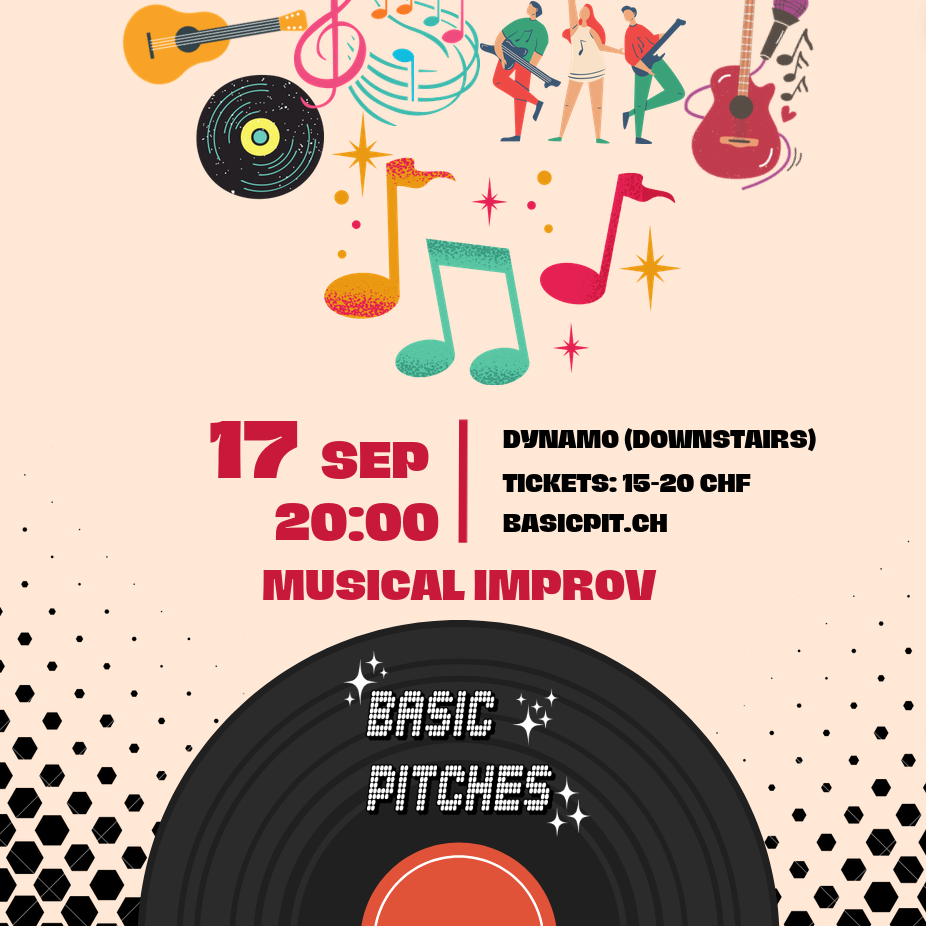
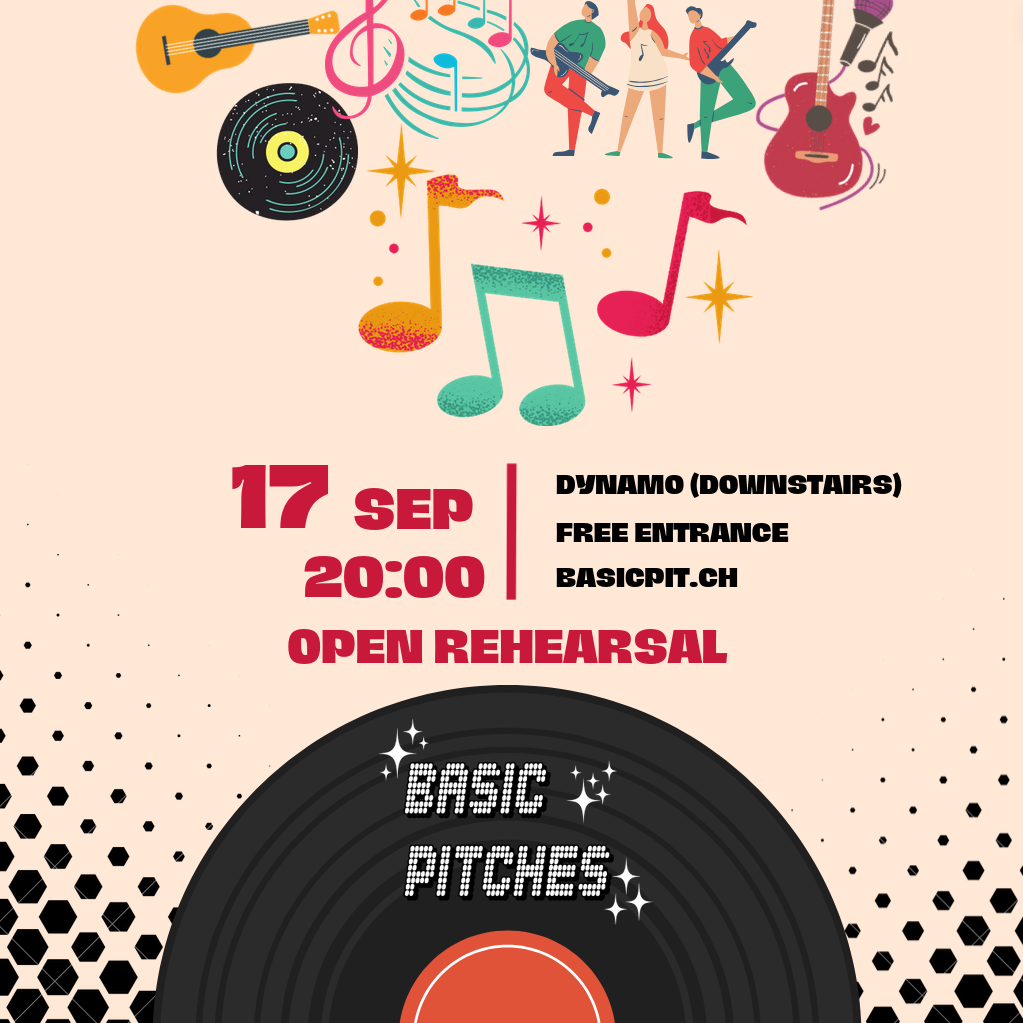
Built from circleci

diff --git a/dynamo_sep_2024.html b/dynamo_sep_2024.html
@@ -5,7 +5,7 @@
   <head>
     <meta charset="utf-8">
     <meta http-equiv="X-UA-Compatible" content="IE=edge">
-    <title>Basic Pitches: A musical show like no other!</title>
+    <title>Open Rehearsal</title>
     
     <meta name="author" content="">
     
@@ -36,7 +36,7 @@
 
 <link rel="shortcut icon" type="image/png" href="/assets/favicon.png">
 
-    <meta property="og:title" content="Basic Pitches: A musical show like no other!">
+    <meta property="og:title" content="Open Rehearsal">
     <meta property="og:description" content="">
     <meta property="og:image" content="/assets/img/big/2024-09-17-dynamo_sep_2024.png">
     <meta property="og:url" content="">
@@ -141,7 +141,7 @@
     <div class="row">
       <div class="col-sm-12">
         <div class="event-heading">
-          <h1 class="heading-title ">Basic Pitches: A musical show like no other!
+          <h1 class="heading-title ">Open Rehearsal
             
               <h4 class="sub-title"> - Musical Improv show </h4>
             
@@ -150,7 +150,7 @@
       </div>
       <div class="col-sm-12 col-md-8">
         <figure>
-          <img src="/assets/images/2024-09-17-dynamo_sep_2024.png" alt="Basic Pitches: A musical show like no other!">
+          <img src="/assets/images/2024-09-17-dynamo_sep_2024.png" alt="Open Rehearsal">
         </figure>
       </div>
 
@@ -184,9 +184,7 @@
             <li>
               <i class="fa fa-ticket icons cyan-color contact-info-icon"></i>
               
-                20 CHF (15CHF for students)
-                
-                  <script src="https://embed.eventfrog.ch/api/scripts/embed/buybutton.js"></script><iframe src="https://embed.eventfrog.ch/en/embed/button-buy.html?eventId=7236005778162698369" frameborder="0" scrolling="no" width="260" height="47" class="ticket-link"></iframe>
+                Free entry
                 
               
             </li>
@@ -216,13 +214,11 @@
 					
           <div class="mb-60"></div>
           <h3>Description:</h3>
-          <p>Join us for an unforgettable night of musical improvisation!<!--more--> Watch as talented actors weave captivating stories and sing heartfelt melodies right before your eyes. With no script and no rehearsal, every performance is a unique and exciting adventure. Don’t miss this chance to witness the magic of live theater!</p>
+          <p>Try out singing together<!--more--> with us! We will be doing some musical improv exercises and games.</p>
 
-<p>Join us for an unforgettable night of musical improvisation! Watch as talented actors weave captivating stories and sing heartfelt melodies right before your eyes. With no script and no rehearsal, every performance is a unique and exciting adventure. Don’t miss this chance to witness the magic of live theater!</p>
+<p>No experience neeeded, just come and have fun with us!</p>
 
 
-          
-          <script src="https://embed.eventfrog.ch/api/scripts/embed/buybutton.js"></script><iframe src="https://embed.eventfrog.ch/en/embed/button-buy.html?eventId=7236005778162698369" frameborder="0" scrolling="no" width="260" height="47" class="ticket-link"></iframe>
           
 
           
@@ -381,7 +377,7 @@
          
        !</h4>
 			 <a href="/dynamo_sep_2024">
-				 <img src="/assets/images/2024-09-17-dynamo_sep_2024.png" alt="Basic Pitches: A musical show like no other! image">
+				 <img src="/assets/images/2024-09-17-dynamo_sep_2024.png" alt="Open Rehearsal image">
 			 </a>
      <p>17 Sep 2024</p>
 

diff --git a/index.html b/index.html
@@ -370,7 +370,7 @@
 
      <div class="col-md-8 col-sm-12">
   			 <a href="/dynamo_sep_2024">
-  				 <img src="/assets/images/2024-09-17-dynamo_sep_2024.png" alt="Basic Pitches: A musical show like no other! image">
+  				 <img src="/assets/images/2024-09-17-dynamo_sep_2024.png" alt="Open Rehearsal image">
   			 </a>
 
        </div>
@@ -512,8 +512,8 @@
              
               <a href="/dynamo_sep_2024"><img src="/assets/images/2024-09-17-dynamo_sep_2024.png" alt=""></a>
              
-              <h5>Basic Pitches: A musical show like no other!</h5>
-              <p><p>Join us for an unforgettable night of musical improvisation!</p>
+              <h5>Open Rehearsal</h5>
+              <p><p>Try out singing together</p>
 
 </p>
               <a href="/dynamo_sep_2024">Full Article <i class="fa fa-arrow-right" aria-hidden="true"></i></a>
@@ -537,21 +537,6 @@
               <h5>Introduction to Rhyming in Musical Improv</h5>
               <p><p>Feel like you can’t rhyme when improvising songs? Keep getting stuck down rhyming dead ends? This is the workshop for you!</p>
 
-<p>In three hours, we will cover the basic building blocks of improvised rhymes!</p>
-
-<ul>
-  <li>How to find your flow</li>
-  <li>How to stay calm</li>
-  <li>How to successfully rhyme and land punchlines in improvised songs</li>
-</ul>
-
-<p>…all while keeping things fun, stress-free, chill and relaxed!</p>
-
-<p>The session involves a lot of writing with pen and paper, and not a huge amount of standing up alone and rhyming on the spot. And when we do rhyme, sing, or rap together, it’ll be in the form of fun shortform games! The atmosphere is always very relaxed, fun and supportive!</p>
-
-<p>Rhyming is one of the things improvisers find most terrifying. This workshop will help you turn that fear into freedom and fun!</p>
-
-<p>Previous improv experience preferable, but not required.</p>
 </p>
               <a href="/MC_Hammersmith_2024">Full Article <i class="fa fa-arrow-right" aria-hidden="true"></i></a>
             </div>

diff --git a/page2/index.html b/page2/index.html
@@ -370,7 +370,7 @@
 
      <div class="col-md-8 col-sm-12">
   			 <a href="/dynamo_sep_2024">
-  				 <img src="/assets/images/2024-09-17-dynamo_sep_2024.png" alt="Basic Pitches: A musical show like no other! image">
+  				 <img src="/assets/images/2024-09-17-dynamo_sep_2024.png" alt="Open Rehearsal image">
   			 </a>
 
        </div>
@@ -512,8 +512,8 @@
              
               <a href="/dynamo_sep_2024"><img src="/assets/images/2024-09-17-dynamo_sep_2024.png" alt=""></a>
              
-              <h5>Basic Pitches: A musical show like no other!</h5>
-              <p><p>Join us for an unforgettable night of musical improvisation!</p>
+              <h5>Open Rehearsal</h5>
+              <p><p>Try out singing together</p>
 
 </p>
               <a href="/dynamo_sep_2024">Full Article <i class="fa fa-arrow-right" aria-hidden="true"></i></a>
@@ -537,21 +537,6 @@
               <h5>Introduction to Rhyming in Musical Improv</h5>
               <p><p>Feel like you can’t rhyme when improvising songs? Keep getting stuck down rhyming dead ends? This is the workshop for you!</p>
 
-<p>In three hours, we will cover the basic building blocks of improvised rhymes!</p>
-
-<ul>
-  <li>How to find your flow</li>
-  <li>How to stay calm</li>
-  <li>How to successfully rhyme and land punchlines in improvised songs</li>
-</ul>
-
-<p>…all while keeping things fun, stress-free, chill and relaxed!</p>
-
-<p>The session involves a lot of writing with pen and paper, and not a huge amount of standing up alone and rhyming on the spot. And when we do rhyme, sing, or rap together, it’ll be in the form of fun shortform games! The atmosphere is always very relaxed, fun and supportive!</p>
-
-<p>Rhyming is one of the things improvisers find most terrifying. This workshop will help you turn that fear into freedom and fun!</p>
-
-<p>Previous improv experience preferable, but not required.</p>
 </p>
               <a href="/MC_Hammersmith_2024">Full Article <i class="fa fa-arrow-right" aria-hidden="true"></i></a>
             </div>

diff --git a/page3/index.html b/page3/index.html
@@ -370,7 +370,7 @@
 
      <div class="col-md-8 col-sm-12">
   			 <a href="/dynamo_sep_2024">
-  				 <img src="/assets/images/2024-09-17-dynamo_sep_2024.png" alt="Basic Pitches: A musical show like no other! image">
+  				 <img src="/assets/images/2024-09-17-dynamo_sep_2024.png" alt="Open Rehearsal image">
   			 </a>
 
        </div>
@@ -512,8 +512,8 @@
              
               <a href="/dynamo_sep_2024"><img src="/assets/images/2024-09-17-dynamo_sep_2024.png" alt=""></a>
              
-              <h5>Basic Pitches: A musical show like no other!</h5>
-              <p><p>Join us for an unforgettable night of musical improvisation!</p>
+              <h5>Open Rehearsal</h5>
+              <p><p>Try out singing together</p>
 
 </p>
               <a href="/dynamo_sep_2024">Full Article <i class="fa fa-arrow-right" aria-hidden="true"></i></a>
@@ -537,21 +537,6 @@
               <h5>Introduction to Rhyming in Musical Improv</h5>
               <p><p>Feel like you can’t rhyme when improvising songs? Keep getting stuck down rhyming dead ends? This is the workshop for you!</p>
 
-<p>In three hours, we will cover the basic building blocks of improvised rhymes!</p>
-
-<ul>
-  <li>How to find your flow</li>
-  <li>How to stay calm</li>
-  <li>How to successfully rhyme and land punchlines in improvised songs</li>
-</ul>
-
-<p>…all while keeping things fun, stress-free, chill and relaxed!</p>
-
-<p>The session involves a lot of writing with pen and paper, and not a huge amount of standing up alone and rhyming on the spot. And when we do rhyme, sing, or rap together, it’ll be in the form of fun shortform games! The atmosphere is always very relaxed, fun and supportive!</p>
-
-<p>Rhyming is one of the things improvisers find most terrifying. This workshop will help you turn that fear into freedom and fun!</p>
-
-<p>Previous improv experience preferable, but not required.</p>
 </p>
               <a href="/MC_Hammersmith_2024">Full Article <i class="fa fa-arrow-right" aria-hidden="true"></i></a>
             </div>

diff --git a/workshops.html b/workshops.html
@@ -162,21 +162,6 @@
 							<i class="fa fa-calendar icons cyan-color contact-info-icon"></i> <time datetime="2024-05-25T14:00:00+00:00" class="by-line">25 May 2024</time>
 	      <p><p>Feel like you can’t rhyme when improvising songs? Keep getting stuck down rhyming dead ends? This is the workshop for you!</p>
 
-<p>In three hours, we will cover the basic building blocks of improvised rhymes!</p>
-
-<ul>
-  <li>How to find your flow</li>
-  <li>How to stay calm</li>
-  <li>How to successfully rhyme and land punchlines in improvised songs</li>
-</ul>
-
-<p>…all while keeping things fun, stress-free, chill and relaxed!</p>
-
-<p>The session involves a lot of writing with pen and paper, and not a huge amount of standing up alone and rhyming on the spot. And when we do rhyme, sing, or rap together, it’ll be in the form of fun shortform games! The atmosphere is always very relaxed, fun and supportive!</p>
-
-<p>Rhyming is one of the things improvisers find most terrifying. This workshop will help you turn that fear into freedom and fun!</p>
-
-<p>Previous improv experience preferable, but not required.</p>
 </p>
               <a class="btn btn-common" href="/MC_Hammersmith_2024">Read More</a>
             </div>
@@ -367,7 +352,7 @@
          
        !</h4>
 			 <a href="/dynamo_sep_2024">
-				 <img src="/assets/images/2024-09-17-dynamo_sep_2024.png" alt="Basic Pitches: A musical show like no other! image">
+				 <img src="/assets/images/2024-09-17-dynamo_sep_2024.png" alt="Open Rehearsal image">
 			 </a>
      <p>17 Sep 2024</p>
 

diff --git a/shows.html b/shows.html
@@ -150,13 +150,13 @@
 	  <div class="blog-block post-content-area">
 	   
 			 <a href="/dynamo_sep_2024">
-				 <img src="/assets/images/2024-09-17-dynamo_sep_2024.png" alt="Basic Pitches: A musical show like no other! image">
+				 <img src="/assets/images/2024-09-17-dynamo_sep_2024.png" alt="Open Rehearsal image">
 			 </a>
 	   
             <div class="blog-post">
-              <h3><a href="/dynamo_sep_2024">Basic Pitches: A musical show like no other!</a></h3>
+              <h3><a href="/dynamo_sep_2024">Open Rehearsal</a></h3>
 							<i class="fa fa-calendar icons cyan-color contact-info-icon"></i> <time datetime="2024-09-17T20:00:00+00:00" class="by-line">17 Sep 2024</time>
-	      <p><p>Join us for an unforgettable night of musical improvisation!</p>
+	      <p><p>Try out singing together</p>
 
 </p>
               <a class="btn btn-common" href="/dynamo_sep_2024">Read More</a>
@@ -615,7 +615,7 @@
          
        !</h4>
 			 <a href="/dynamo_sep_2024">
-				 <img src="/assets/images/2024-09-17-dynamo_sep_2024.png" alt="Basic Pitches: A musical show like no other! image">
+				 <img src="/assets/images/2024-09-17-dynamo_sep_2024.png" alt="Open Rehearsal image">
 			 </a>
      <p>17 Sep 2024</p>
 

diff --git a/MC_Hammersmith_2024.html b/MC_Hammersmith_2024.html
@@ -216,7 +216,7 @@
 					
           <div class="mb-60"></div>
           <h3>Description:</h3>
-          <p>Feel like you can’t rhyme when improvising songs? Keep getting stuck down rhyming dead ends? This is the workshop for you!</p>
+          <p>Feel like you can’t rhyme when improvising songs? Keep getting stuck down rhyming dead ends? This is the workshop for you!<!--more--></p>
 
 <p>In three hours, we will cover the basic building blocks of improvised rhymes!</p>
 
@@ -410,7 +410,7 @@ He is a former UK Improv Smackdown Champion and has taught improv for groups, in
          
        !</h4>
 			 <a href="/dynamo_sep_2024">
-				 <img src="/assets/images/2024-09-17-dynamo_sep_2024.png" alt="Basic Pitches: A musical show like no other! image">
+				 <img src="/assets/images/2024-09-17-dynamo_sep_2024.png" alt="Open Rehearsal image">
 			 </a>
      <p>17 Sep 2024</p>
 

diff --git a/first_musical.html b/first_musical.html
@@ -394,7 +394,7 @@ nonprofit organization  providing humanitarian aid to Ukraine.</p>
          
        !</h4>
 			 <a href="/dynamo_sep_2024">
-				 <img src="/assets/images/2024-09-17-dynamo_sep_2024.png" alt="Basic Pitches: A musical show like no other! image">
+				 <img src="/assets/images/2024-09-17-dynamo_sep_2024.png" alt="Open Rehearsal image">
 			 </a>
      <p>17 Sep 2024</p>
 

diff --git a/baby_wants_candy.html b/baby_wants_candy.html
@@ -417,7 +417,7 @@
          
        !</h4>
 			 <a href="/dynamo_sep_2024">
-				 <img src="/assets/images/2024-09-17-dynamo_sep_2024.png" alt="Basic Pitches: A musical show like no other! image">
+				 <img src="/assets/images/2024-09-17-dynamo_sep_2024.png" alt="Open Rehearsal image">
 			 </a>
      <p>17 Sep 2024</p>
 

diff --git a/dynamo_2023.html b/dynamo_2023.html
@@ -381,7 +381,7 @@
          
        !</h4>
 			 <a href="/dynamo_sep_2024">
-				 <img src="/assets/images/2024-09-17-dynamo_sep_2024.png" alt="Basic Pitches: A musical show like no other! image">
+				 <img src="/assets/images/2024-09-17-dynamo_sep_2024.png" alt="Open Rehearsal image">
 			 </a>
      <p>17 Sep 2024</p>
 

diff --git a/dynamo_apr_2024.html b/dynamo_apr_2024.html
@@ -389,7 +389,7 @@
          
        !</h4>
 			 <a href="/dynamo_sep_2024">
-				 <img src="/assets/images/2024-09-17-dynamo_sep_2024.png" alt="Basic Pitches: A musical show like no other! image">
+				 <img src="/assets/images/2024-09-17-dynamo_sep_2024.png" alt="Open Rehearsal image">
 			 </a>
      <p>17 Sep 2024</p>
 
